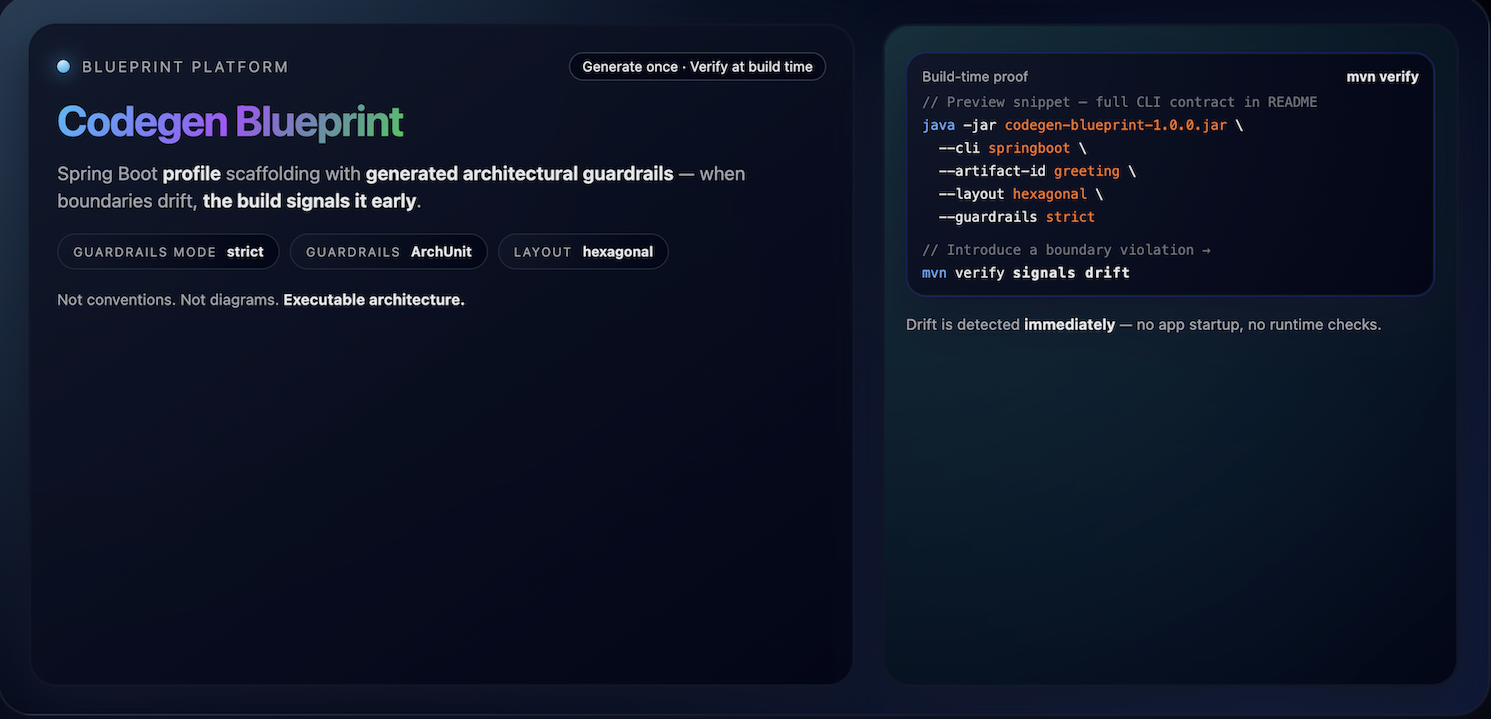
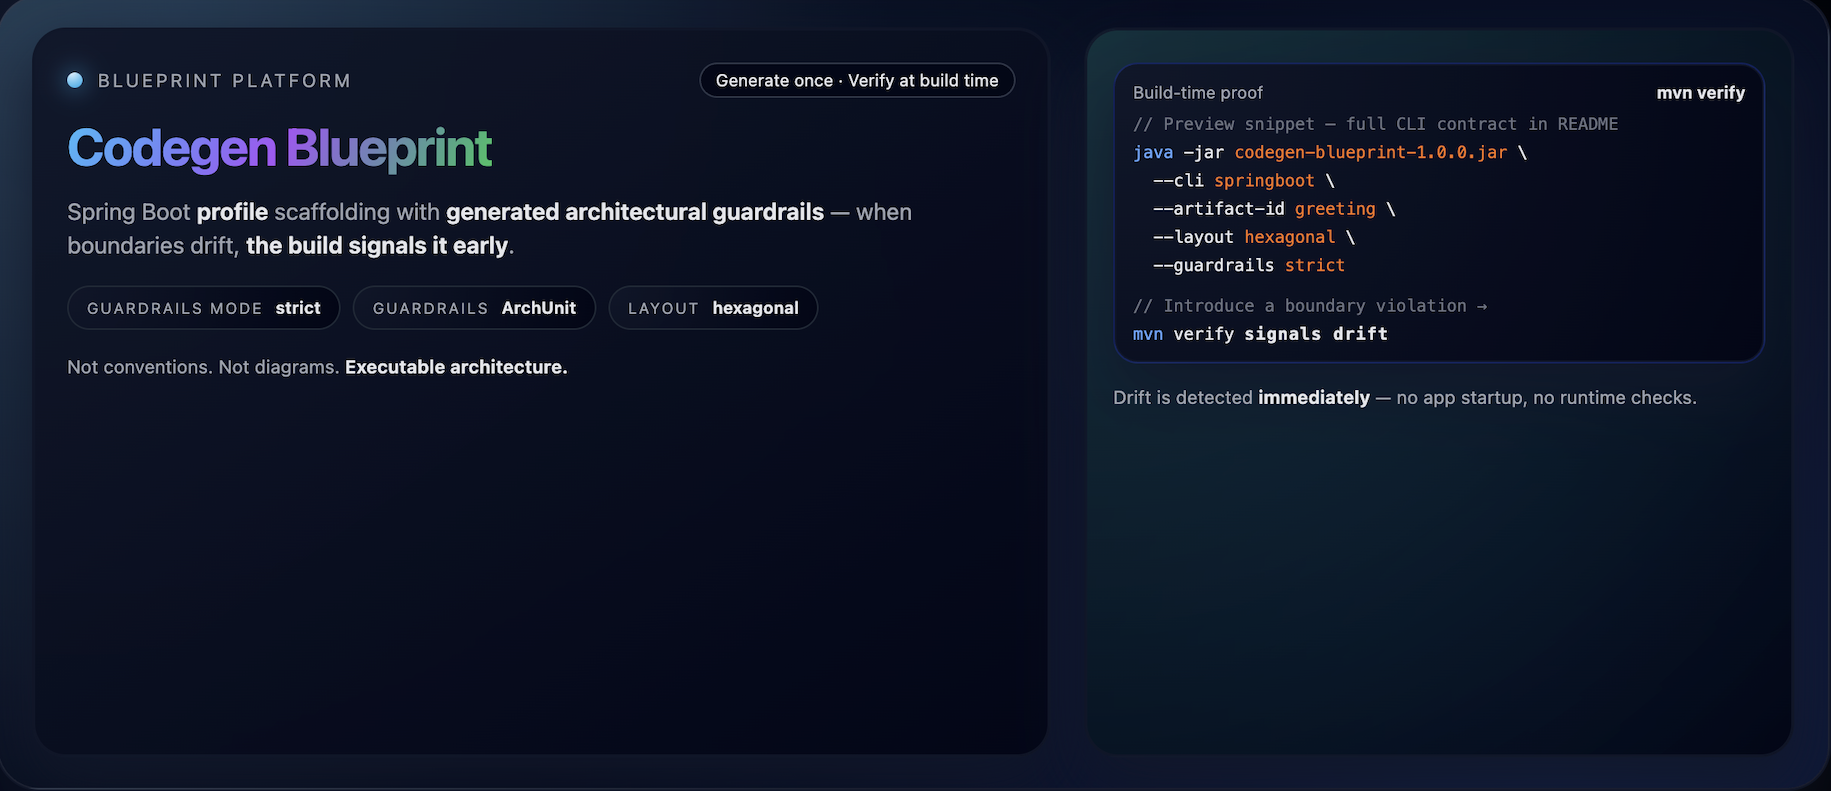
chore(ui): adjust frame width and height in cover-mini.html
Corrects frame dimensions to ensure proper layout and visual alignment.

diff --git a/docs/images/cover/cover-mini.html b/docs/images/cover/cover-mini.html
@@ -34,14 +34,14 @@
 
     .frame {
       width: 1200px;
-      height: 580px;
+      height: 520px;
       border-radius: 28px;
       border: 1px solid rgba(148, 163, 184, 0.15);
       background: radial-gradient(circle at top left, #1e293b 0, #020617 45%, #020617 100%);
       box-shadow:
               0 40px 80px rgba(15, 23, 42, 0.9),
               0 0 0 1px rgba(15, 23, 42, 0.9);
-      padding: 22px 24px;
+      padding: 20px 22px;
       position: relative;
       overflow: hidden;
     }
